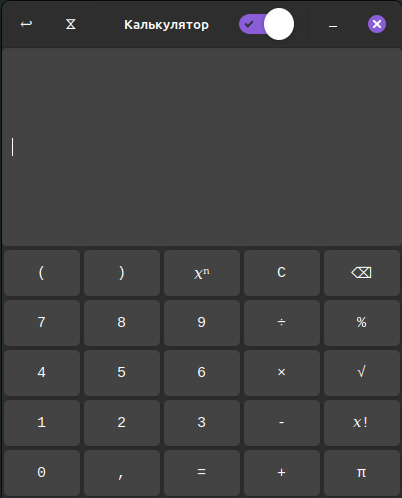
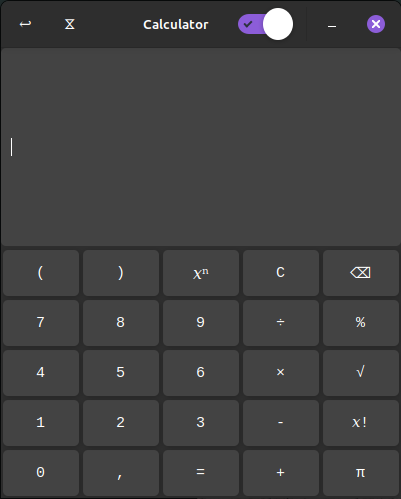
tiny changes

diff --git a/calc_app.cpp b/calc_app.cpp
@@ -34,7 +34,7 @@ void Calculator::load_css(const char* css_path) {
 void Calculator::setup_header_bar() {
     header_bar = gtk_header_bar_new();
     gtk_header_bar_set_show_close_button(GTK_HEADER_BAR(header_bar), TRUE);
-    gtk_header_bar_set_title(GTK_HEADER_BAR(header_bar), "Калькулятор");
+    gtk_header_bar_set_title(GTK_HEADER_BAR(header_bar), "Calculator");
     gtk_window_set_titlebar(GTK_WINDOW(window), header_bar);
 
     undo_button = gtk_button_new_with_label("↩");
